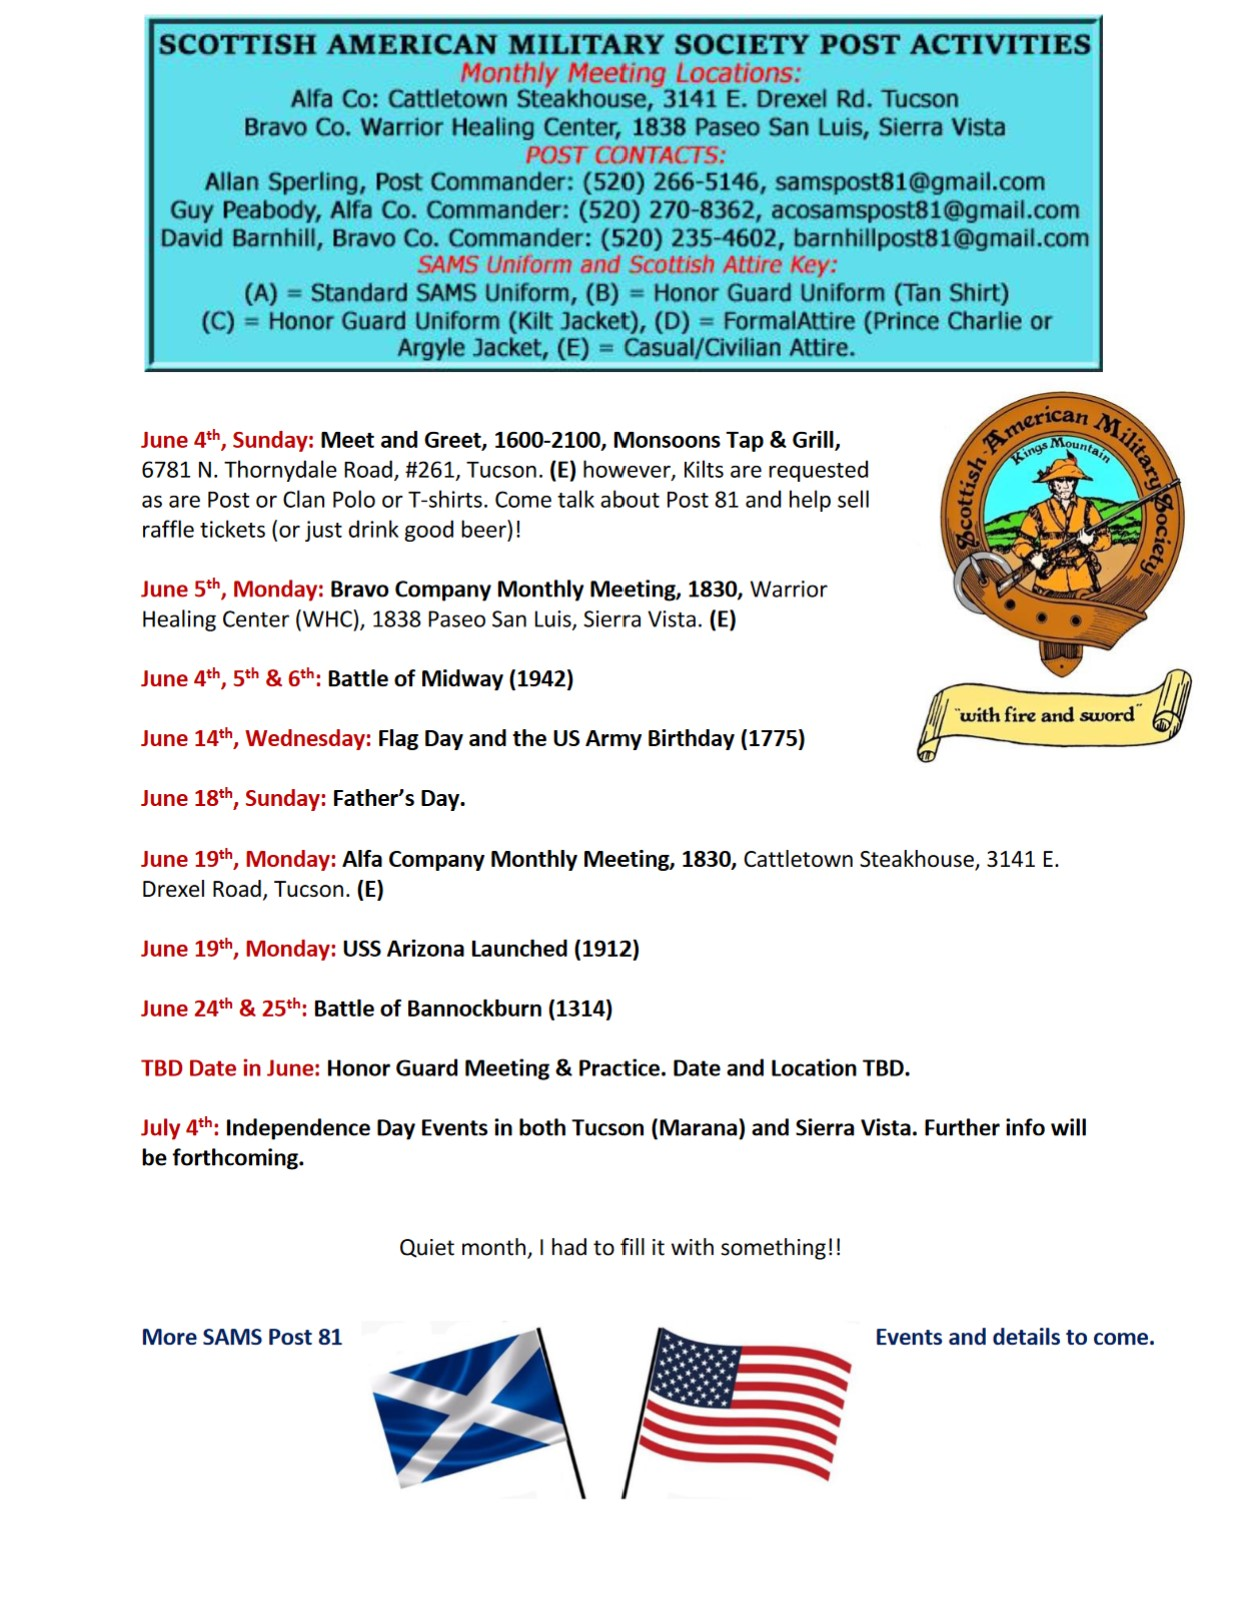
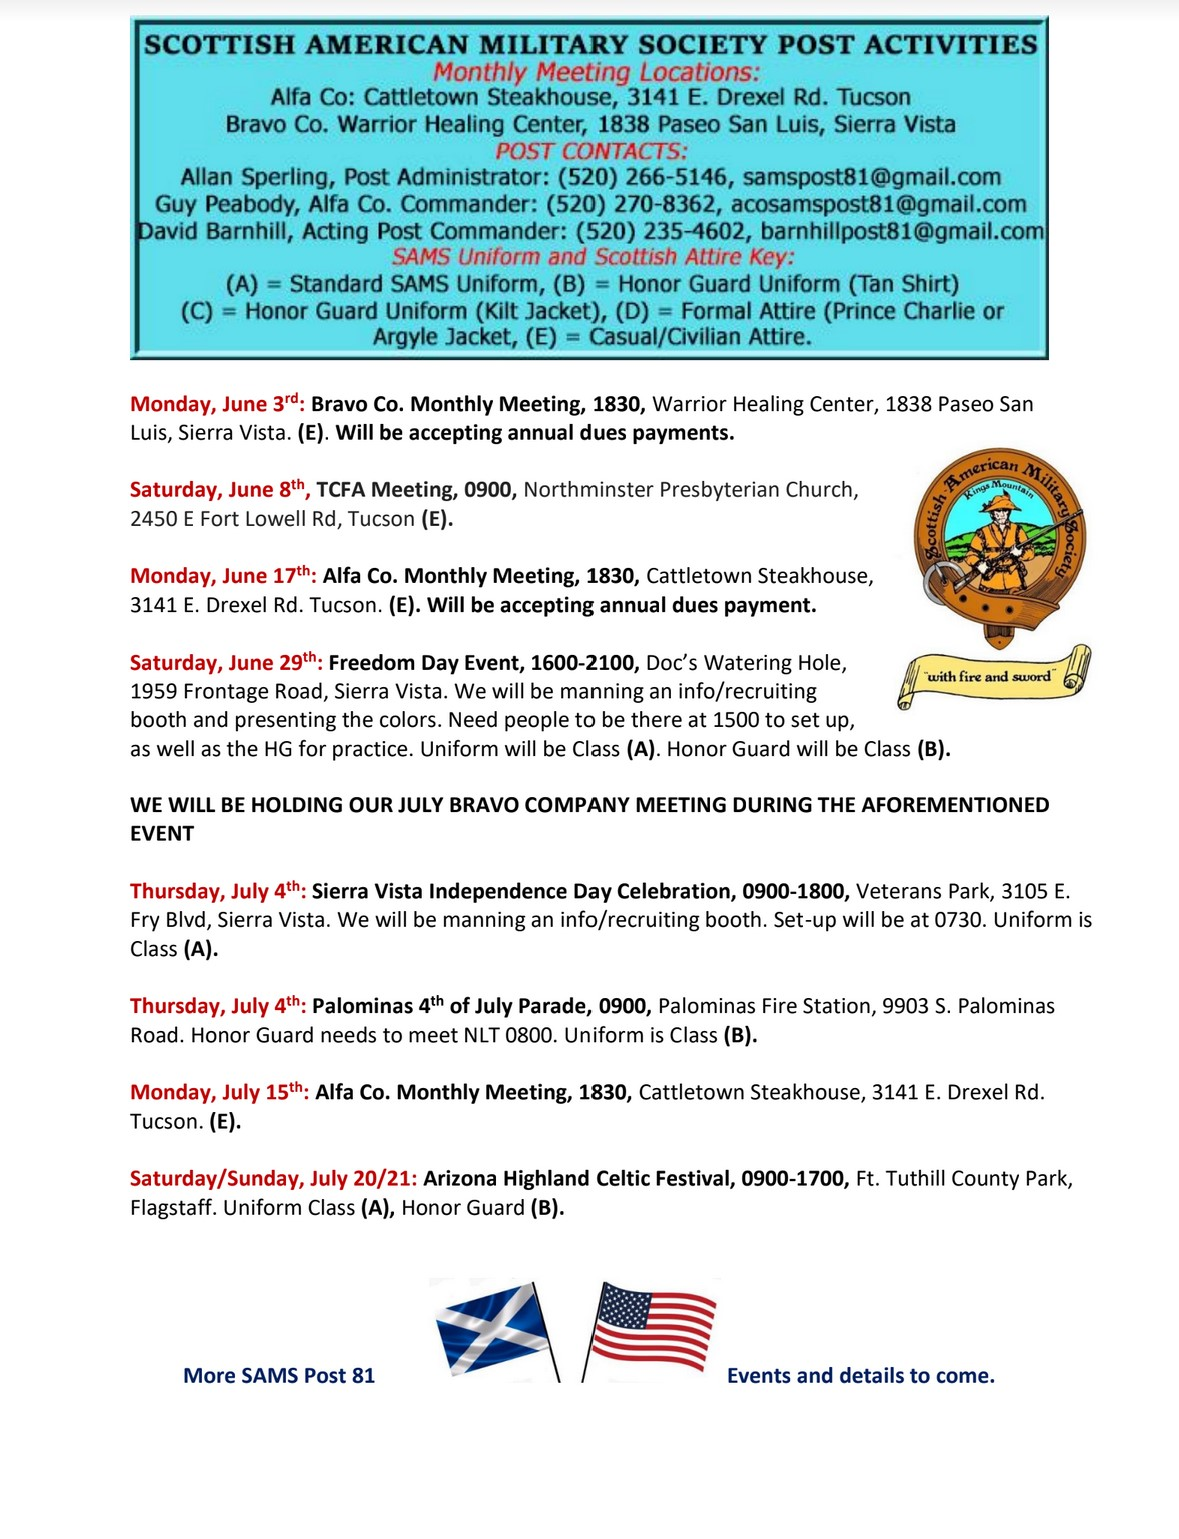
june calender

Changed region(s): [[0.0916, 0.0, 0.9771, 0.9357], [0.7023, 0.8109, 0.916, 0.8421]]

diff --git a/index.html b/index.html
@@ -227,7 +227,7 @@
         <h2>Events</h2>
         <div class="events__container">
             <div class="events__img">
-                <img src="docs/mayCal.png" alt="Events Calender">
+                <img src="docs/juneCal.jpg" alt="Events Calender">
             </div>
         </div>
     </section>
